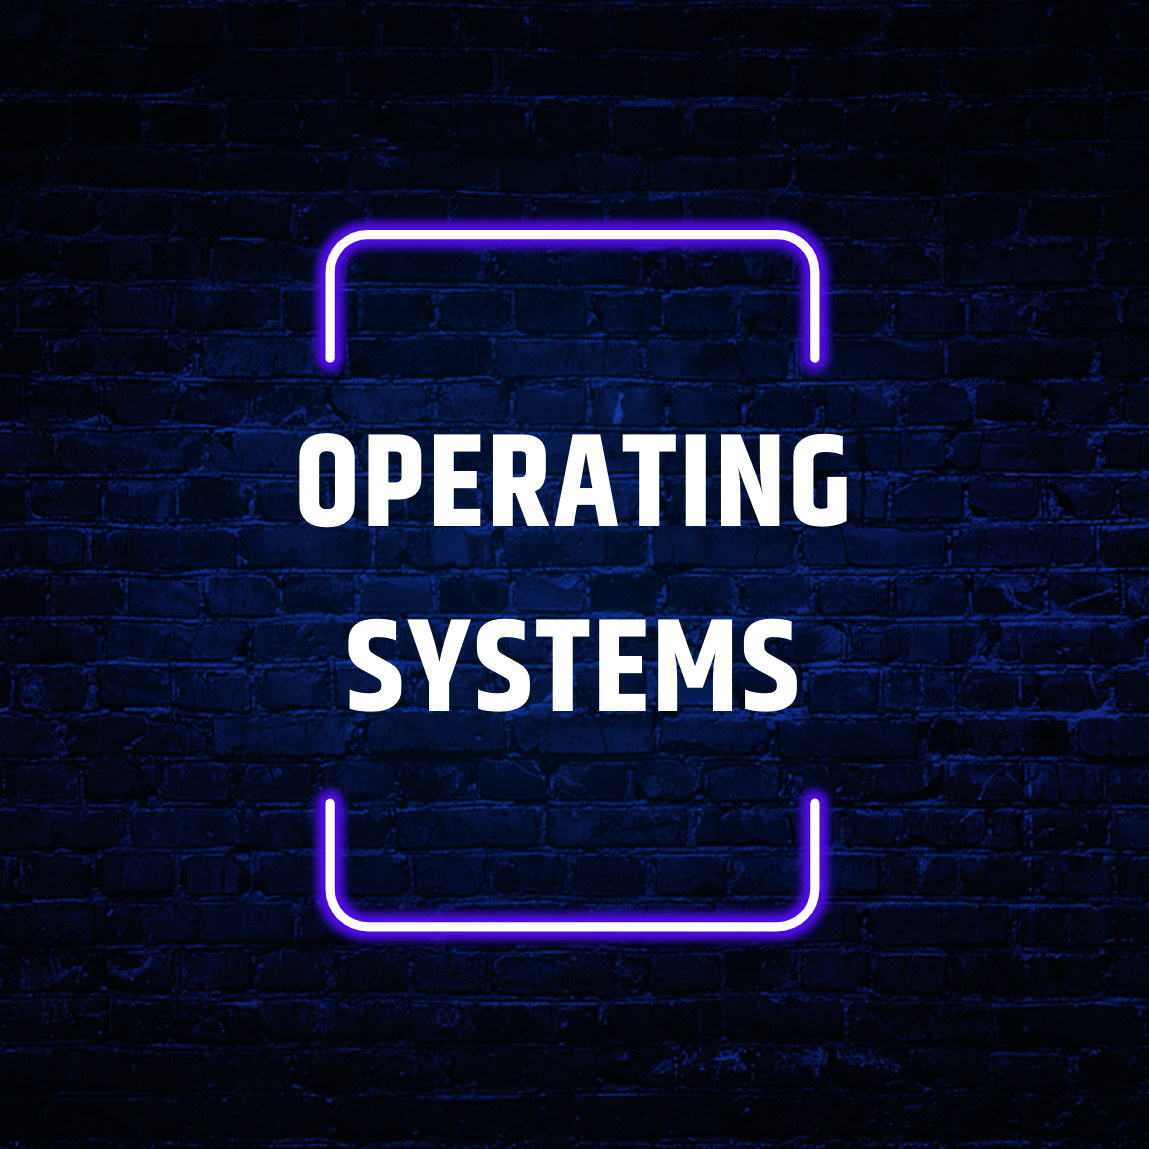
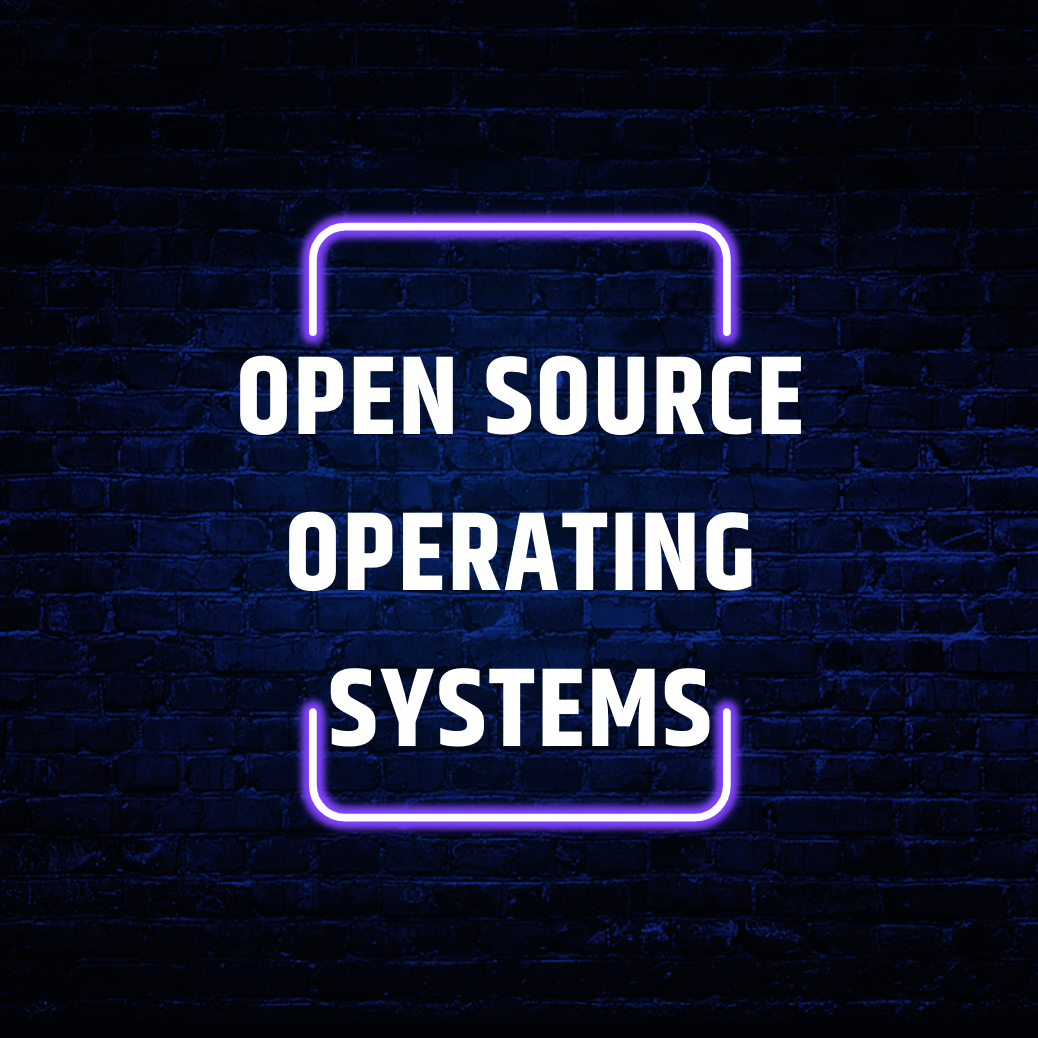
Article Update

diff --git a/index.html b/index.html
@@ -71,7 +71,7 @@
 						<a href="#" class="image"><img src="images/OS.jpg" alt="" data-position="top center" /></a>
 						<div class="content">
 							<div class="inner">
-								<h2>Operating Systems</h2>
+								<h2>Open-Source Operating Systems</h2>
 								<p>Read Article</p>
 								<ul class="actions">
 									<li><a href="generic.html" class="button">Read Article</a></li>
